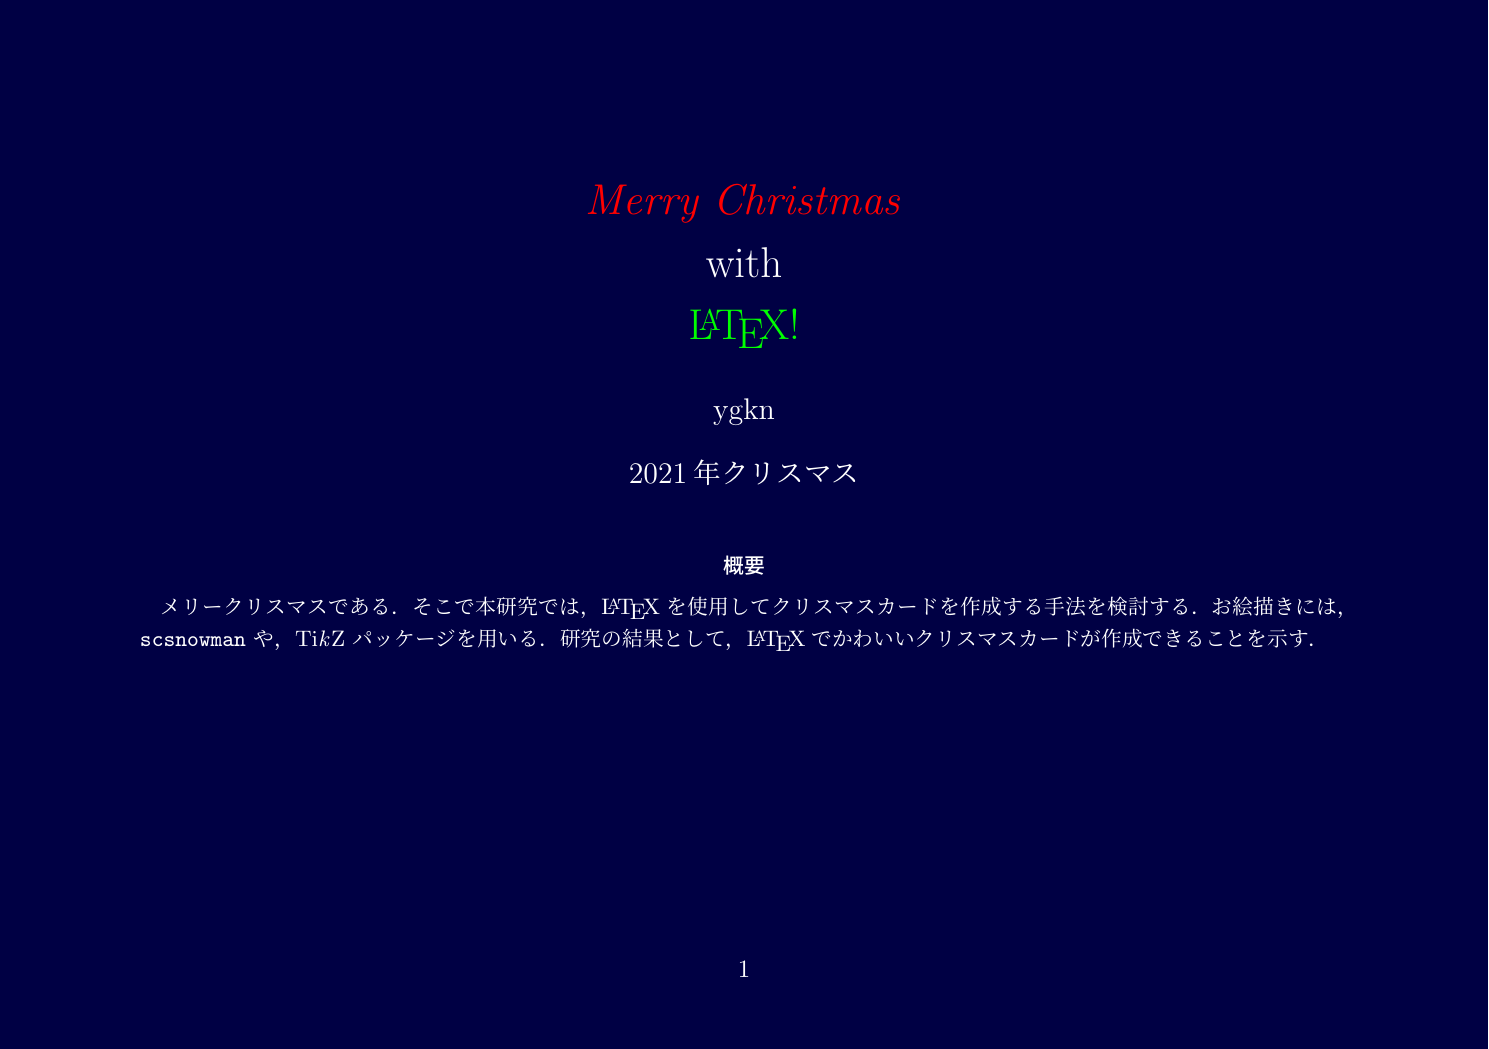
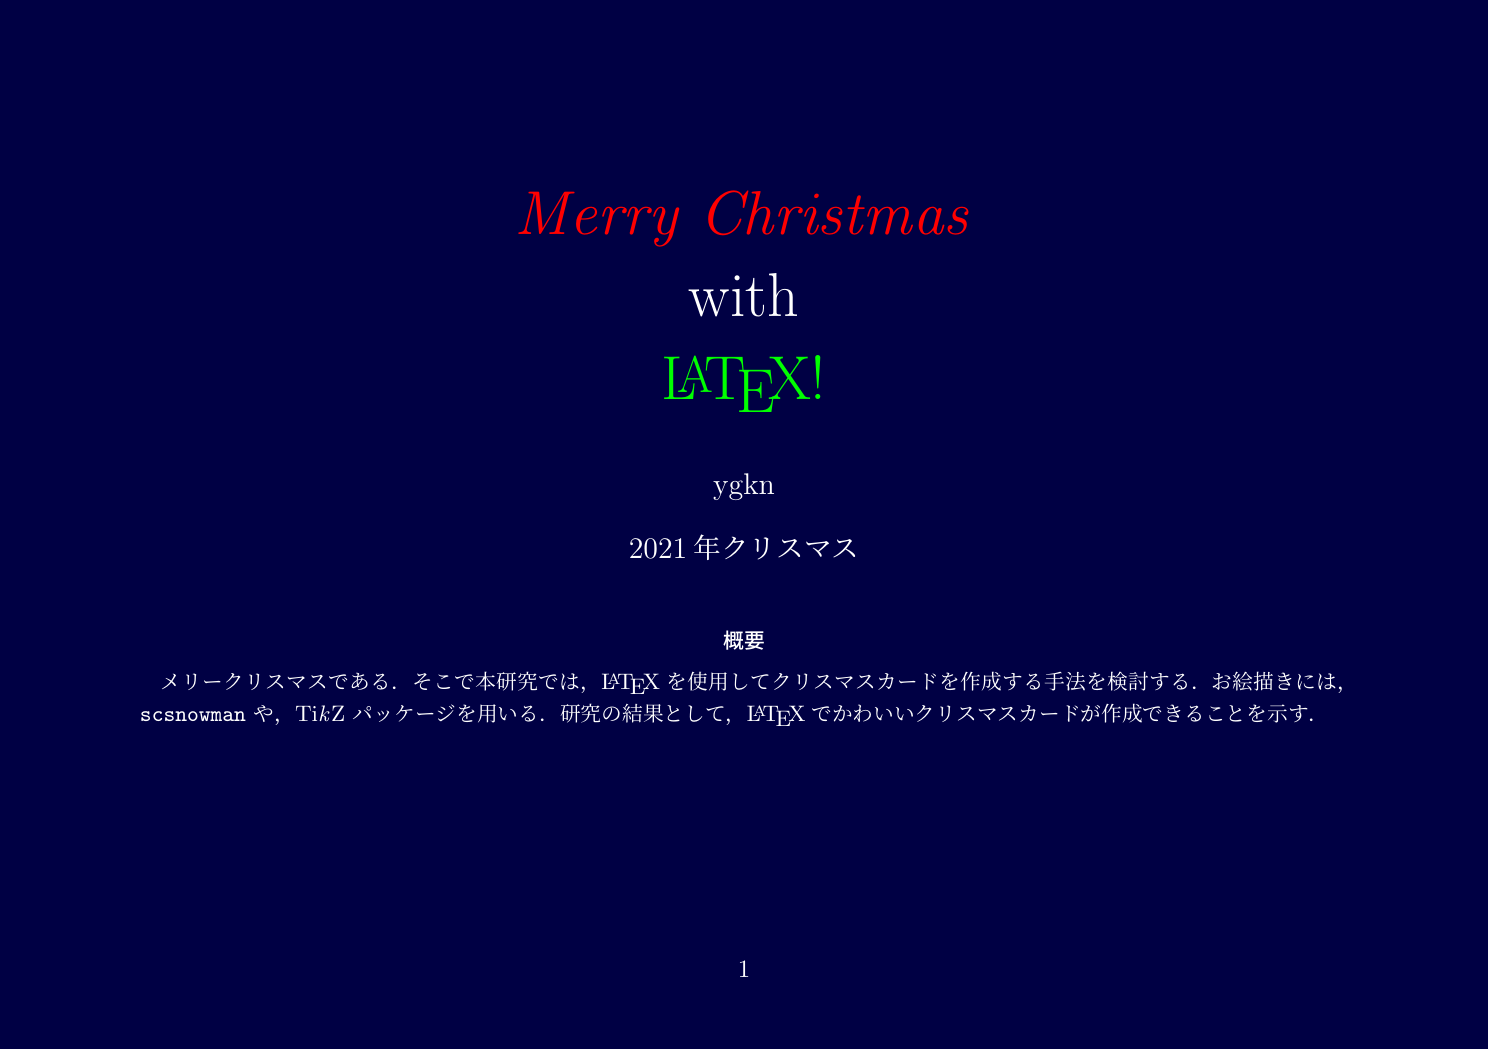
fix

diff --git a/main.tex b/main.tex
@@ -56,6 +56,7 @@
 \color{white}
 
 \title{
+\Huge
 {\color{red} \textit{Merry Christmas}} \\
 with \\
 {\color{green} \LaTeX !}
@@ -88,7 +89,7 @@ with \\
 \section{先行研究}
 
 冬や雪に関連する \LaTeX の先行 \sout{ミーム} 研究としては，
-☃ が存在する \cite{tex-meme} ．
+雪だるまが存在する \cite{tex-meme} ．
 
 \section{提案手法}
 
